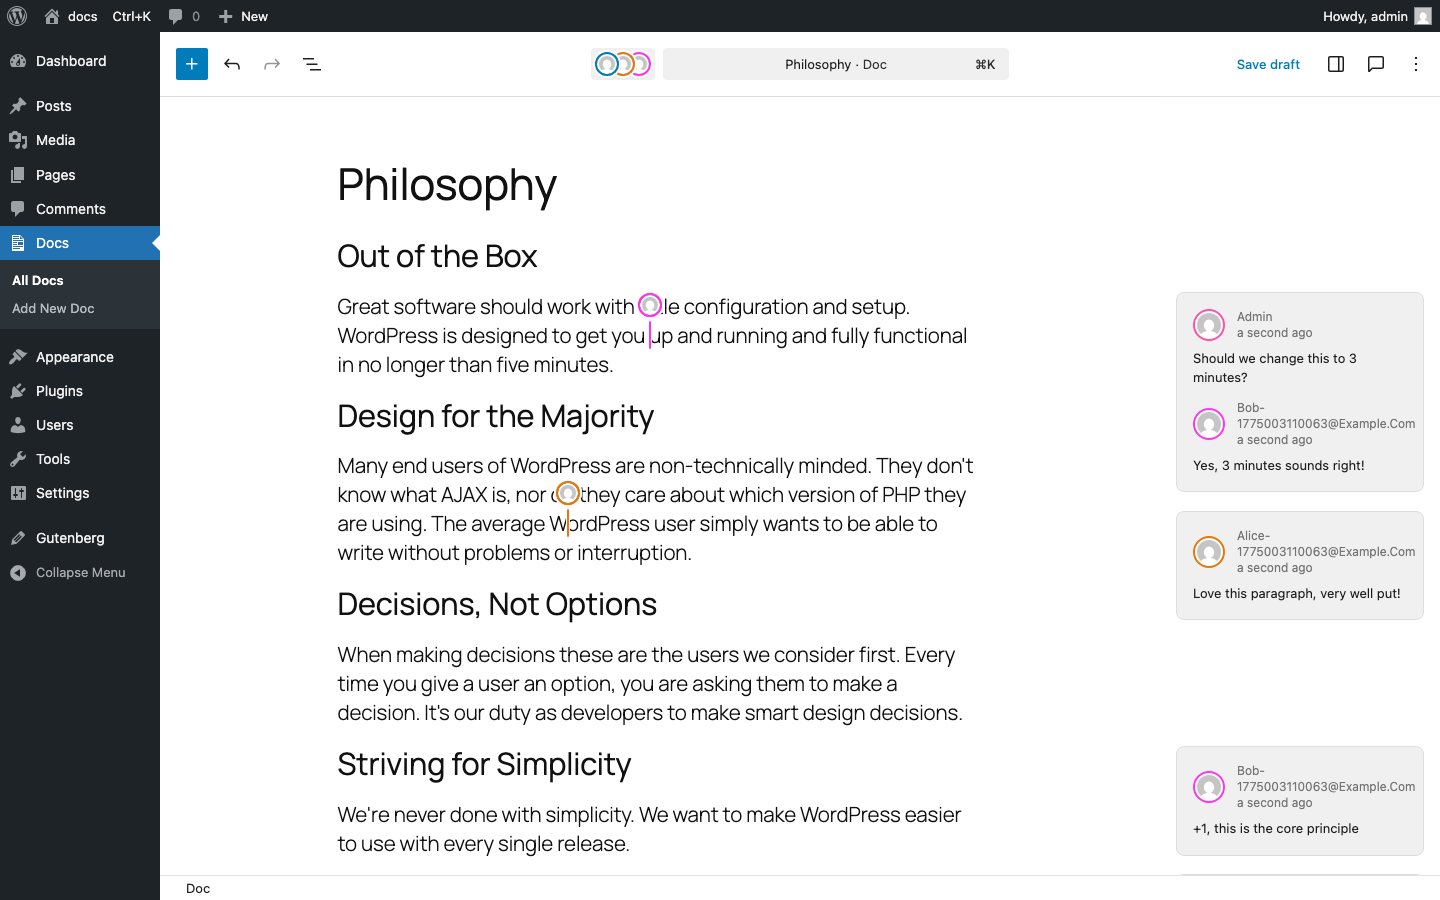
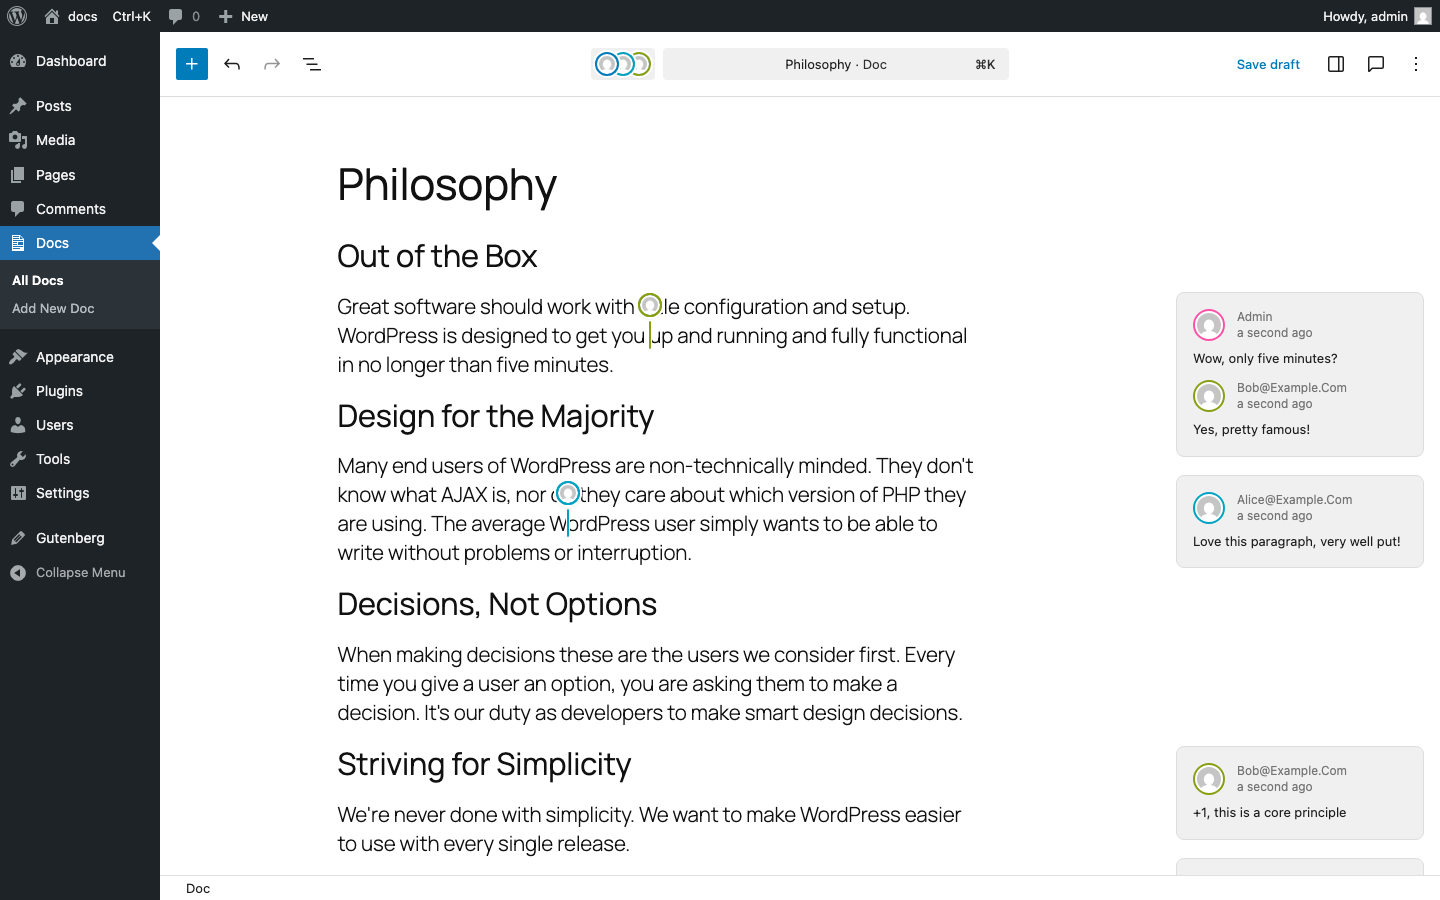
Update note text and use simple emails in block-notes tests

diff --git a/tests/e2e/block-notes.spec.js b/tests/e2e/block-notes.spec.js
@@ -60,7 +60,7 @@ test.describe( 'Block notes', () => {
 		const emailUser = await requestUtils.rest( {
 			path: '/docs/v1/get-or-create-user',
 			method: 'POST',
-			data: { email: 'noter-' + Date.now() + '@example.com' },
+			data: { email: 'noter@example.com' },
 		} );
 
 		await requestUtils.rest( {
@@ -171,8 +171,8 @@ test.describe( 'Block notes', () => {
 		// Create two email users.
 		const users = [];
 		const userEmails = [
-			'alice-' + Date.now() + '@example.com',
-			'bob-' + Date.now() + '@example.com',
+			'alice@example.com',
+			'bob@example.com',
 		];
 		for ( const email of userEmails ) {
 			const user = await requestUtils.rest( {
@@ -197,15 +197,15 @@ test.describe( 'Block notes', () => {
 		await page.getByRole( 'toolbar', { name: 'Block tools' } )
 			.getByRole( 'button', { name: 'Options' } ).click();
 		await page.getByRole( 'menuitem', { name: /note/i } ).click();
-		await page.locator( '.editor-collab-sidebar-panel__comment-form textarea' ).fill( 'Should we change this to 3 minutes?' );
+		await page.locator( '.editor-collab-sidebar-panel__comment-form textarea' ).fill( 'Wow, only five minutes?' );
 		await page.getByRole( 'button', { name: /Add note/i } ).click();
-		await expect( page.getByText( 'Should we change this to 3 minutes?' ) ).toBeVisible( { timeout: 15000 } );
+		await expect( page.getByText( 'Wow, only five minutes?' ) ).toBeVisible( { timeout: 15000 } );
 
 		// Open all email user sessions simultaneously so CRDT state is shared.
 		const emails = await requestUtils.rest( { path: '/docs-test/v1/emails' } );
 		const notes = [
 			{ block: 'non-technically minded', text: 'Love this paragraph, very well put!' },
-			{ block: 'Striving for Simplicity', text: '+1, this is the core principle' },
+			{ block: 'Striving for Simplicity', text: '+1, this is a core principle' },
 		];
 
 		const contexts = [];
@@ -261,13 +261,13 @@ test.describe( 'Block notes', () => {
 			);
 
 		// The admin's note should now appear in the sidebar.
-		await expect( bobPage.getByText( 'Should we change this to 3 minutes?' ) ).toBeVisible( { timeout: 15000 } );
+		await expect( bobPage.getByText( 'Wow, only five minutes?' ) ).toBeVisible( { timeout: 15000 } );
 
 		// Reply to it.
-		await bobPage.getByText( 'Should we change this to 3 minutes?' ).click();
-		await bobPage.locator( '.editor-collab-sidebar-panel__comment-form textarea' ).last().fill( 'Yes, 3 minutes sounds right!' );
+		await bobPage.getByText( 'Wow, only five minutes?' ).click();
+		await bobPage.locator( '.editor-collab-sidebar-panel__comment-form textarea' ).last().fill( 'Yes, pretty famous!' );
 		await bobPage.getByRole( 'button', { name: 'Reply', exact: true } ).click();
-		await expect( bobPage.getByText( 'Yes, 3 minutes sounds right!' ) ).toBeVisible( { timeout: 15000 } );
+		await expect( bobPage.getByText( 'Yes, pretty famous!' ) ).toBeVisible( { timeout: 15000 } );
 
 		// Admin adds a note on the last paragraph to trigger a refetch of all comments.
 		await page.waitForTimeout( 2000 );
